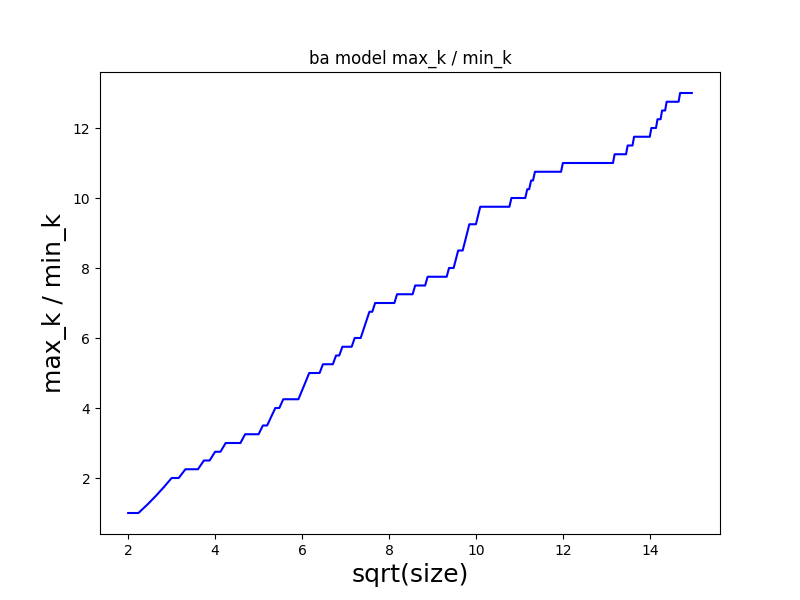
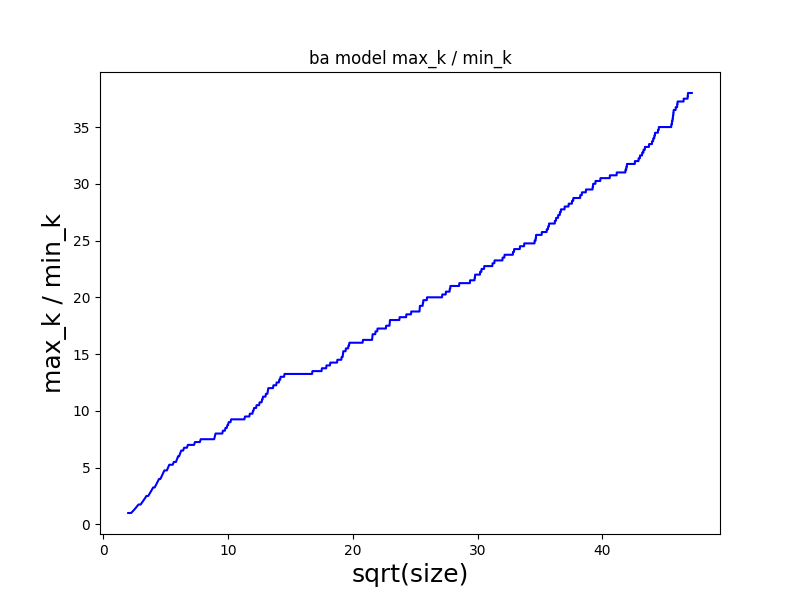
3 8

diff --git a/Networks3/ba.py b/Networks3/ba.py
@@ -108,29 +108,26 @@ def run_ba_model(size: int, kernel_size: int):
     max_k: int = list_degrees[-1]
     min_k: int = list_degrees[0]
 
-    ks: list[int] = [index for index in range(max_k + 1)]
+    ks: list[int] = [0] * (max_k + 1)
 
-    pks: list[float] = [0.0] * len(ks)
+    pks: list[float] = [0.0] * (max_k + 1)
 
     degrees_count: int = sum(dict_degrees.values())
 
-    for i in range(0, len(list_degrees)):
-        k: int = list_degrees[i]
-
-        count_k: int = dict_degrees[k]
+    for k in range(max_k + 1):
+        count_k: int = dict_degrees[k] if k in dict_degrees else 0
 
         pk: float = count_k / degrees_count if degrees_count > 0 else 0.0
 
-        log_pk = math.log(pk) if pk > 0 else 0.0
-
-        log_log_pk = math.log(log_pk) if log_pk > 0 else 0.0
-
-        pks[i] = log_log_pk
+        ks[k] = k
+        pks[k] = pk
 
     plt.figure(figsize=(8, 6))
 
     #plt.plot(node_indices, ks, "-bD")
-    plt.plot(ks, pks, "-b")
+    plt.loglog(ks, pks, "-b")
+    plt.gca().set_xscale('log', base=np.e)
+    plt.gca().set_yscale('log', base=np.e)
 
     plt.xlabel("k", fontsize=18)
     plt.ylabel("P(k)", fontsize=18)
@@ -206,4 +203,4 @@ def create_kernel(kernel_size: int) -> list[Node]:
 
     return list_of_nodes
 
-run_ba_model(222, 4)
+run_ba_model(2222, 4)
